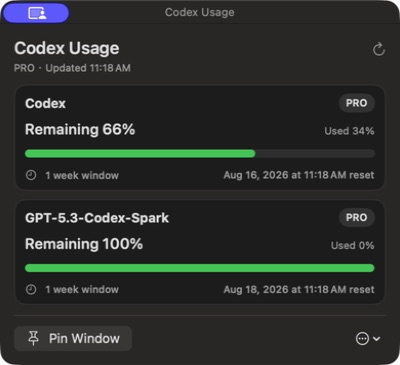
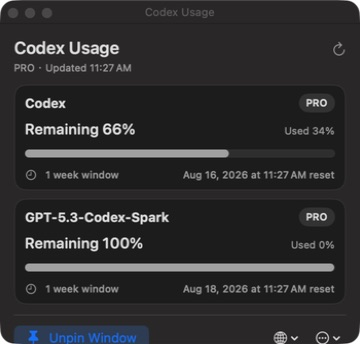
发布可切换语言与自适应浮窗 v0.3.0

diff --git a/Sources/CodexUsageMonitor/Views.swift b/Sources/CodexUsageMonitor/Views.swift
@@ -3,6 +3,12 @@ import SwiftUI
 
 struct UsagePopoverView: View {
     @EnvironmentObject private var store: UsageStore
+    var presentation: Presentation = .menuBar
+
+    enum Presentation: Equatable {
+        case menuBar
+        case floatingPanel
+    }
 
     private var l10n: L10n { store.l10n }
 
@@ -49,8 +55,15 @@ struct UsagePopoverView: View {
             controls
         }
         .padding(14)
-        .frame(width: 400)
-        .fixedSize(horizontal: false, vertical: true)
+        .frame(
+            minWidth: presentation == .floatingPanel ? 360 : 400,
+            idealWidth: 400,
+            maxWidth: presentation == .floatingPanel ? .infinity : 400,
+            minHeight: presentation == .floatingPanel ? 320 : nil,
+            maxHeight: presentation == .floatingPanel ? .infinity : nil,
+            alignment: .topLeading
+        )
+        .fixedSize(horizontal: false, vertical: presentation == .menuBar)
     }
 
     private var header: some View {
@@ -83,11 +96,52 @@ struct UsagePopoverView: View {
     private var controls: some View {
         HStack(spacing: 8) {
             Button {
-                FloatingPanelController.shared.show(store: store)
+                if presentation == .menuBar {
+                    FloatingPanelController.shared.show(store: store)
+                } else {
+                    store.toggleWindowPinned()
+                }
             } label: {
-                Label(l10n.pinWindow, systemImage: "pin")
+                Label(
+                    presentation == .menuBar
+                        ? l10n.pinWindow
+                        : (store.isWindowPinned ? l10n.unpinWindow : l10n.pinWindow),
+                    systemImage: presentation == .menuBar
+                        ? "pin"
+                        : (store.isWindowPinned ? "pin.fill" : "pin.slash")
+                )
             }
+            .foregroundStyle(
+                presentation == .menuBar || store.isWindowPinned
+                    ? Color.accentColor
+                    : Color.secondary
+            )
             Spacer()
+            Menu {
+                Button {
+                    store.setLanguage(.simplifiedChinese)
+                } label: {
+                    if store.language == .simplifiedChinese {
+                        Label(l10n.simplifiedChinese, systemImage: "checkmark")
+                    } else {
+                        Text(l10n.simplifiedChinese)
+                    }
+                }
+                Button {
+                    store.setLanguage(.english)
+                } label: {
+                    if store.language == .english {
+                        Label(l10n.english, systemImage: "checkmark")
+                    } else {
+                        Text(l10n.english)
+                    }
+                }
+            } label: {
+                Image(systemName: "globe")
+            }
+            .menuStyle(.borderlessButton)
+            .help(l10n.languageMenu)
+            .fixedSize()
             Menu {
                 Button(l10n.quit) {
                     NSApplication.shared.terminate(nil)
@@ -208,6 +262,8 @@ struct UsageWindowView: View {
 final class FloatingPanelController: NSObject, NSWindowDelegate {
     static let shared = FloatingPanelController()
     private var panel: NSPanel?
+    private var isSnapping = false
+    private let snapDistance: CGFloat = 14
 
     func show(store: UsageStore) {
         if let panel {
@@ -216,17 +272,18 @@ final class FloatingPanelController: NSObject, NSWindowDelegate {
             return
         }
 
-        let rootView = UsagePopoverView().environmentObject(store)
+        let rootView = UsagePopoverView(presentation: .floatingPanel).environmentObject(store)
         let controller = NSHostingController(rootView: rootView)
         let panel = NSPanel(
             contentRect: NSRect(x: 0, y: 0, width: 400, height: 420),
-            styleMask: [.titled, .closable, .utilityWindow],
+            styleMask: [.titled, .closable, .resizable, .utilityWindow],
             backing: .buffered,
             defer: false
         )
         panel.title = store.l10n.title
         panel.contentViewController = controller
-        panel.contentMinSize = NSSize(width: 400, height: 320)
+        panel.contentMinSize = NSSize(width: 360, height: 380)
+        panel.contentMaxSize = NSSize(width: 720, height: 900)
         panel.level = .floating
         panel.isFloatingPanel = true
         panel.hidesOnDeactivate = false
@@ -236,9 +293,50 @@ final class FloatingPanelController: NSObject, NSWindowDelegate {
         panel.makeKeyAndOrderFront(nil)
         NSApplication.shared.activate(ignoringOtherApps: true)
         self.panel = panel
+        setPinned(store.isWindowPinned)
     }
 
     func windowWillClose(_ notification: Notification) {
         panel = nil
+    }
+
+    func windowDidMove(_ notification: Notification) {
+        snapToVisibleScreenEdges()
+    }
+
+    func windowDidEndLiveResize(_ notification: Notification) {
+        snapToVisibleScreenEdges()
+    }
+
+    func updateTitle(_ title: String) {
+        panel?.title = title
+    }
+
+    func setPinned(_ isPinned: Bool) {
+        panel?.level = isPinned ? .floating : .normal
+    }
+
+    private func snapToVisibleScreenEdges() {
+        guard let panel, !isSnapping, let screen = panel.screen else { return }
+        let visible = screen.visibleFrame
+        let frame = panel.frame
+        var origin = frame.origin
+
+        if abs(frame.minX - visible.minX) <= snapDistance {
+            origin.x = visible.minX
+        } else if abs(frame.maxX - visible.maxX) <= snapDistance {
+            origin.x = visible.maxX - frame.width
+        }
+
+        if abs(frame.minY - visible.minY) <= snapDistance {
+            origin.y = visible.minY
+        } else if abs(frame.maxY - visible.maxY) <= snapDistance {
+            origin.y = visible.maxY - frame.height
+        }
+
+        guard origin != frame.origin else { return }
+        isSnapping = true
+        panel.setFrameOrigin(origin)
+        isSnapping = false
     }
 }

diff --git a/Sources/CodexUsageMonitor/UsageStore.swift b/Sources/CodexUsageMonitor/UsageStore.swift
@@ -3,11 +3,11 @@ import Foundation
 
 @MainActor
 final class UsageStore: ObservableObject {
-    let language: AppLanguage
-    let l10n: L10n
+    @Published private(set) var language: AppLanguage
     @Published private(set) var snapshot: UsageSnapshot?
     @Published private(set) var isLoading = false
     @Published private(set) var errorMessage: String?
+    @Published private(set) var isWindowPinned = true
     @Published var refreshInterval: TimeInterval = 60 {
         didSet { restartTimer() }
     }
@@ -16,13 +16,39 @@ final class UsageStore: ObservableObject {
     private var timer: Timer?
     private var hasStarted = false
     private let isDemoMode: Bool
+    private var lastMonitorError: UsageMonitorError?
+    private let defaults: UserDefaults
+    private static let languagePreferenceKey = "preferredAppLanguage"
+
+    var l10n: L10n { L10n(language: language) }
 
     init(
-        language: AppLanguage = .detect(),
-        arguments: [String] = ProcessInfo.processInfo.arguments
+        language: AppLanguage? = nil,
+        arguments: [String] = ProcessInfo.processInfo.arguments,
+        environment: [String: String] = ProcessInfo.processInfo.environment,
+        preferredLanguages: [String] = Locale.preferredLanguages,
+        defaults: UserDefaults = .standard
     ) {
-        self.language = language
-        self.l10n = L10n(language: language)
+        self.defaults = defaults
+        if let language {
+            self.language = language
+        } else if arguments.contains(where: { $0.hasPrefix("--language") })
+                    || environment["CODEX_USAGE_MONITOR_LANGUAGE"] != nil {
+            self.language = AppLanguage.detect(
+                arguments: arguments,
+                environment: environment,
+                preferredLanguages: preferredLanguages
+            )
+        } else if let saved = defaults.string(forKey: Self.languagePreferenceKey),
+                  let savedLanguage = AppLanguage(rawValue: saved) {
+            self.language = savedLanguage
+        } else {
+            self.language = AppLanguage.detect(
+                arguments: arguments,
+                environment: environment,
+                preferredLanguages: preferredLanguages
+            )
+        }
         self.isDemoMode = arguments.contains("--demo")
         if isDemoMode {
             self.snapshot = Self.demoSnapshot
@@ -32,6 +58,21 @@ final class UsageStore: ObservableObject {
     var menuTitle: String {
         guard let remaining = snapshot?.headlineRemainingPercent else { return "Codex" }
         return "\(Int(remaining.rounded()))%"
+    }
+
+    func setLanguage(_ language: AppLanguage) {
+        guard self.language != language else { return }
+        self.language = language
+        defaults.set(language.rawValue, forKey: Self.languagePreferenceKey)
+        if let lastMonitorError {
+            errorMessage = l10n.errorMessage(for: lastMonitorError)
+        }
+        FloatingPanelController.shared.updateTitle(l10n.title)
+    }
+
+    func toggleWindowPinned() {
+        isWindowPinned.toggle()
+        FloatingPanelController.shared.setPinned(isWindowPinned)
     }
 
     func start() {
@@ -49,9 +90,12 @@ final class UsageStore: ObservableObject {
         do {
             snapshot = try await client.fetchUsage()
             errorMessage = nil
+            lastMonitorError = nil
         } catch let error as UsageMonitorError {
+            lastMonitorError = error
             errorMessage = l10n.errorMessage(for: error)
         } catch {
+            lastMonitorError = nil
             errorMessage = error.localizedDescription
         }
     }

diff --git a/Sources/CodexUsageMonitor/Localization.swift b/Sources/CodexUsageMonitor/Localization.swift
@@ -10,7 +10,8 @@ enum AppLanguage: String, CaseIterable, Sendable {
 
     static func detect(
         arguments: [String] = ProcessInfo.processInfo.arguments,
-        environment: [String: String] = ProcessInfo.processInfo.environment
+        environment: [String: String] = ProcessInfo.processInfo.environment,
+        preferredLanguages: [String] = Locale.preferredLanguages
     ) -> AppLanguage {
         if let override = commandLineOverride(in: arguments)
             ?? environment["CODEX_USAGE_MONITOR_LANGUAGE"],
@@ -18,28 +19,7 @@ enum AppLanguage: String, CaseIterable, Sendable {
             return language
         }
 
-        for domain in ["com.openai.codex", "com.openai.chat"] {
-            if let preferred = UserDefaults(suiteName: domain)?.object(forKey: "AppleLanguages") {
-                if let values = preferred as? [String],
-                   let language = values.compactMap({ from(identifier: $0) }).first {
-                    return language
-                }
-                if let value = preferred as? String,
-                   let language = from(identifier: value) {
-                    return language
-                }
-            }
-        }
-
-        for path in ["/Applications/Codex.app", "/Applications/ChatGPT.app"] {
-            if let bundle = Bundle(path: path),
-               let identifier = bundle.preferredLocalizations.first,
-               let language = from(identifier: identifier) {
-                return language
-            }
-        }
-
-        return Locale.preferredLanguages.compactMap({ from(identifier: $0) }).first ?? .english
+        return preferredLanguages.compactMap({ from(identifier: $0) }).first ?? .english
     }
 
     static func from(identifier: String) -> AppLanguage? {
@@ -73,6 +53,10 @@ struct L10n: Sendable {
     var retryLater: String { pick("请稍后重试", "Please try again later") }
     var refreshNow: String { pick("立即刷新", "Refresh now") }
     var pinWindow: String { pick("固定浮窗", "Pin Window") }
+    var unpinWindow: String { pick("取消固定", "Unpin Window") }
+    var languageMenu: String { pick("语言", "Language") }
+    var simplifiedChinese: String { pick("简体中文", "Simplified Chinese") }
+    var english: String { pick("英文", "English") }
     var quit: String { pick("退出", "Quit") }
     var uninstall: String { pick("卸载应用…", "Uninstall App…") }
     var unknownPlan: String { pick("未知计划", "Unknown plan") }

diff --git a/Tests/CodexUsageMonitorTests/CodexAppServerClientTests.swift b/Tests/CodexUsageMonitorTests/CodexAppServerClientTests.swift
@@ -41,3 +41,35 @@ import Testing
     #expect(store.snapshot?.buckets.count == 2)
     #expect(store.snapshot?.headlineRemainingPercent == 66)
 }
+
+@MainActor
+@Test func firstLaunchUsesMacOSLanguageAndManualChoicePersists() {
+    let suiteName = "CodexUsageMonitorTests.\(UUID().uuidString)"
+    let defaults = UserDefaults(suiteName: suiteName)!
+    defer { defaults.removePersistentDomain(forName: suiteName) }
+
+    let firstLaunch = UsageStore(
+        arguments: ["app", "--demo"],
+        environment: [:],
+        preferredLanguages: ["zh-Hans-CN"],
+        defaults: defaults
+    )
+    #expect(firstLaunch.language == .simplifiedChinese)
+    firstLaunch.setLanguage(.english)
+
+    let nextLaunch = UsageStore(
+        arguments: ["app", "--demo"],
+        environment: [:],
+        preferredLanguages: ["zh-Hans-CN"],
+        defaults: defaults
+    )
+    #expect(nextLaunch.language == .english)
+}
+
+@MainActor
+@Test func pinStateToggles() {
+    let store = UsageStore(language: .english, arguments: ["app", "--demo"])
+    #expect(store.isWindowPinned)
+    store.toggleWindowPinned()
+    #expect(!store.isWindowPinned)
+}

diff --git a/README.md b/README.md
@@ -14,6 +14,9 @@ A small native macOS menu bar app that reads your remaining Codex usage from the
 - Opens a floating window on launch and can keep it above other windows.
 - Automatically follows the Codex/ChatGPT app language when available, then falls back to the macOS preferred language.
 - Supports Simplified Chinese and English.
+- Detects the macOS preferred language on first launch, then remembers manual language changes.
+- Supports edge snapping, mouse resizing, and an adaptive floating-window layout.
+- Uses distinct highlighted/neutral pin icons for pinned and normal window states.
 - Includes Quit, in-app Uninstall, and a standalone uninstall script.
 - Does not read or store your ChatGPT token; it reuses the local Codex sign-in state.
 
@@ -39,13 +42,7 @@ The app is written to `dist/Codex 用量监控.app`.
 
 ## Language selection
 
-At launch, the app checks the following sources in order:
-
-1. A Codex/ChatGPT per-app language preference.
-2. The preferred localization of the installed Codex/ChatGPT app.
-3. The macOS preferred language.
-
-Chinese language variants use Simplified Chinese; all other languages use English. Maintainers can test either UI with `--language=zh-Hans` or `--language=en`.
+On first launch, the app reads the macOS preferred language. Chinese language variants use Simplified Chinese; all other languages use English. You can switch languages at any time from the globe menu, and the choice is remembered. Maintainers can test either UI with `--language=zh-Hans` or `--language=en`.
 
 ## Uninstall
 

diff --git a/README.zh-CN.md b/README.zh-CN.md
@@ -14,6 +14,9 @@
 - 启动时自动打开浮窗，并可保持窗口置顶。
 - 优先跟随 Codex/ChatGPT 客户端语言，无法读取时回退到 macOS 首选语言。
 - 支持简体中文和英文。
+- 首次启动自动检测 macOS 首选语言，手动切换后会记住选择。
+- 浮窗支持边缘吸附、鼠标缩放和内容自适应。
+- 固定与非固定状态使用不同颜色和图标，并真实切换窗口置顶层级。
 - 支持退出、应用内卸载和独立卸载脚本。
 - 不读取或保存 ChatGPT Token，复用本机 Codex 登录状态。
 
@@ -39,13 +42,7 @@
 
 ## 语言选择
 
-应用启动时依次检查：
-
-1. Codex/ChatGPT 的应用级语言偏好。
-2. 已安装 Codex/ChatGPT 客户端的首选本地化语言。
-3. macOS 首选语言。
-
-中文语言变体显示简体中文，其他语言显示英文。维护者可通过 `--language=zh-Hans` 或 `--language=en` 测试两套界面。
+首次启动时，应用读取 macOS 首选语言。中文语言变体显示简体中文，其他语言显示英文。此后可以随时通过地球图标菜单切换语言，应用会记住选择。维护者可通过 `--language=zh-Hans` 或 `--language=en` 测试两套界面。
 
 ## 卸载
 
